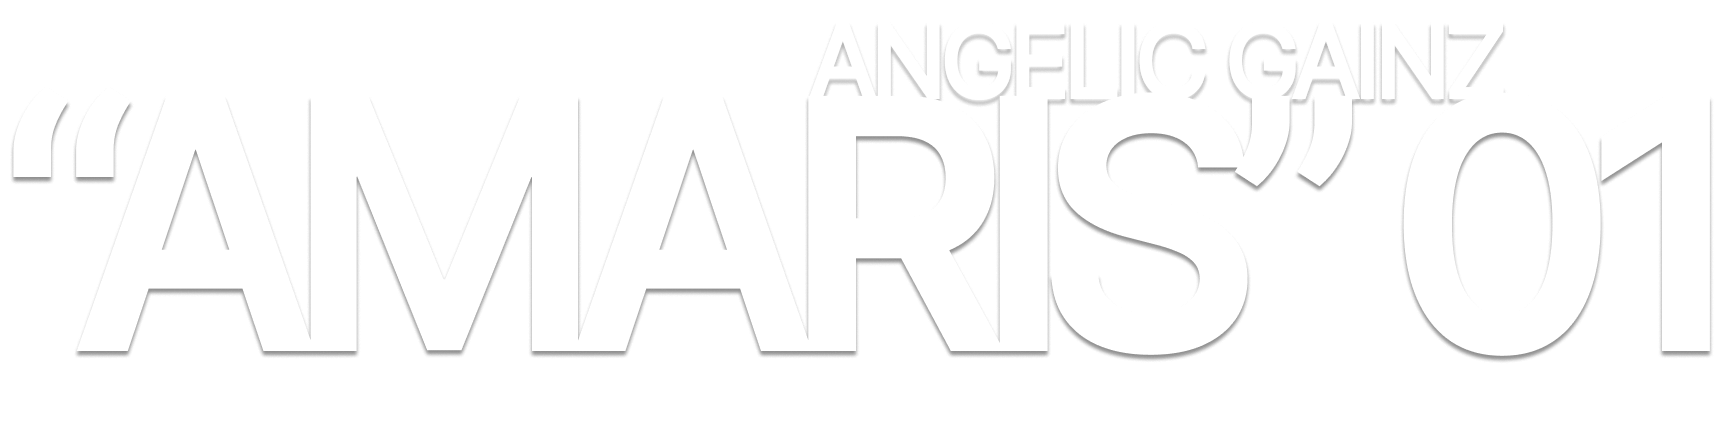
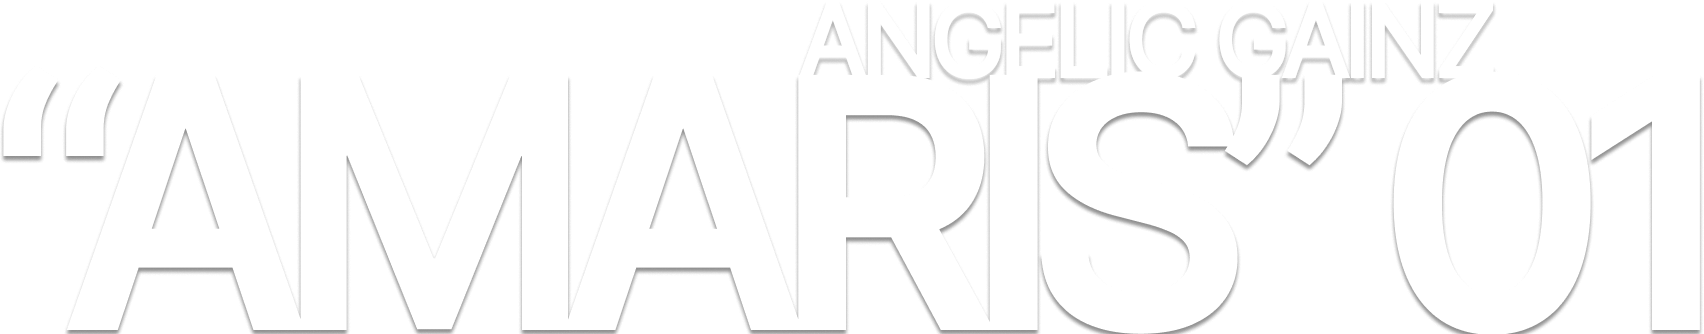
media queries

diff --git a/style.css b/style.css
@@ -1,5 +1,9 @@
 /* reset */
 
+*{
+    box-sizing: border-box;
+}
+
 html, body, div, span, applet, object, iframe,
 h1, h2, h3, h4, h5, h6, p, blockquote, pre,
 a, abbr, acronym, address, big, cite, code,
@@ -71,8 +75,10 @@ a{
 .hero-text{
     padding-top: 12rem;
     width: 100%;
-    padding-bottom: 1rem;
+    padding-bottom: 2rem;
 }
+
+
 .btn-primary{
     padding: 10px 15px;
     border-radius: 5px;
@@ -82,40 +88,13 @@ a{
     font-size: 1.2rem;
     letter-spacing: -0.1rem;
     z-index: 100;
+    margin-left: 0;
 }
 
 .img-container{
-    display: flex;
+    display: block;
 }
 
-.img-name-two {
-    transform: rotate(-90deg);
-    position: fixed;
-    bottom: 13rem;
-    left: 6rem;
-    z-index: 2;
-    }
-.img-one {
-
-    position: fixed;
-    bottom: 0px;
-    left: -2%;
-    z-index: 1;
-    }
-    .img-one img{
-        width: 48%;
-        }
-        .img-name-one {
-            border:1px solid red;
-            position: relative;
-            top: 0rem;
-            left: 0;
-            z-index: 2;
-            transform: rotate(-90deg);
-        }
-.rotate{
-    transform: rotate(-90deg)!important;
-}
 .img-two {
     width: 66%;
 
@@ -123,18 +102,147 @@ a{
     bottom: 0px;
     left: 35%;
     }
+        .img-name-two {
+            transform: rotate(-90deg);
+            position: fixed;
+            bottom: 13rem;
+            left: 6rem;
+            z-index: 2;
+            }
+.img-one {
+
+    position: fixed;
+    bottom: 0px;
+    left: -2%;
+    z-index: 1;
+    width: 48%;
+    }
+        .img-name-one {
+            transform: rotate(-90deg);
+            position: fixed;
+            bottom: 4rem;
+            left: 13rem;
+            z-index: 2;
+            }
+.rotate{
+    transform: rotate(-90deg)!important;
+}
+
 /* .fix{
     position:fixed;
     bottom:0px;
     left:50%;
 } */
-@media (min-width:320px)  {
+@media (max-height:500px){
+    .img-container{
+        display: none;
+    }
+
+}
 
 
+@media (min-width:500px)  {
+    .btn-primary{
+        align-self: flex-start;
+        background-color: #e95513;
+    }
+    .hero-text{
+        
+        padding-bottom: 0.5rem;
+    }
   
- 
 }
 @media (min-width:600px) {
+    .hero-text {
+        padding-top: 8rem;
+    }
+    .img-two {
+        width: 59%;
+    }
+}
+
+@media (min-width:600px) {
+   
+    .img-one{
+        left: 13%;
+        width: 28%;
+    }
+
+    .img-two {
+    width: 36%;
+    position: fixed;
+    bottom: 0px;
+    left: 52%;
+    }
+}
+
+@media (min-width:1000px){
+        .hero-text {
+            padding-top: 6rem;
+        }
+
+        .img-one{
+            left: 13%;
+            width: 32%;
+        }
+
+        .img-two {
+        width: 36%;
+        position: fixed;
+        bottom: 0px;
+        left: 52%;
+        }
+        .btn-primary{
+            padding: 16px 15px;
+            font-size: 2rem;
+            letter-spacing: -0.2rem;
+            margin-left: 3.5rem;
+        }
+}
+
+@media (min-width:1000px){
+    .hero-text {
+        padding-top: 6rem;
+    }
+
+    .img-one{
+        left: 13%;
+        width: 32%;
+    }
+
+    .img-two {
+    width: 36%;
+    position: fixed;
+    bottom: 0px;
+    left: 52%;
+    }
+}
+
+@media (min-width:1000px){
+    .hero-text {
+        padding-top: 6rem;
+    }
+
+    .img-one{
+        left: 13%;
+        width: 32%;
+    }
+
+    .img-two {
+    width: 36%;
+    position: fixed;
+    bottom: 0px;
+    left: 52%;
+    }
+}
 
 
+@media (min-width:1300px){
+    
+.img-two {
+    width: 29%;
+    position: fixed;
+    bottom: 0px;
+    left: 60%;
+}
 }

diff --git a/index.html b/index.html
@@ -17,10 +17,11 @@
         <img class="hero-text" src="/Group-1.png">
         <a class="btn-primary" href="https://square.link/u/jvwZ9qUw">ORDER NOW</a>
         <div class="img-container">
-            <div class="img-one">
-                <img src="/amaris-front.jpg">
-                <!-- <span class="img-name-one rotate">AS_3098</span> -->
-            </div>
+       
+                <img class="img-one"src="/amaris-front.jpg">
+                <span class="img-name-one rotate">AS_3098</span>
+          
+            
         <span class="img-name-two">AS_1231</span>
      
         <img class="img-two" src="/amaris-back.jpg">
